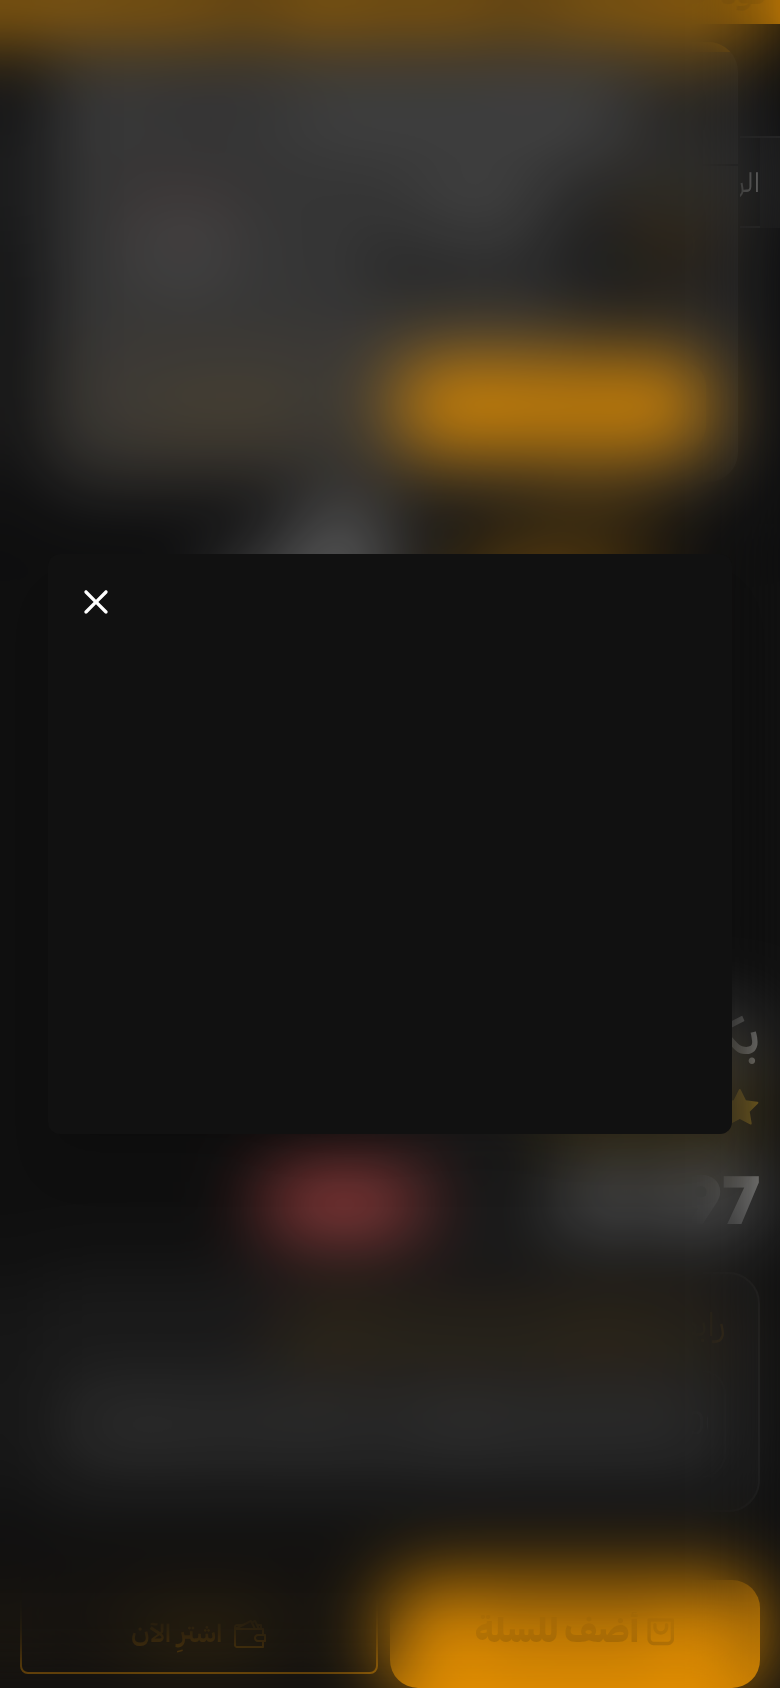
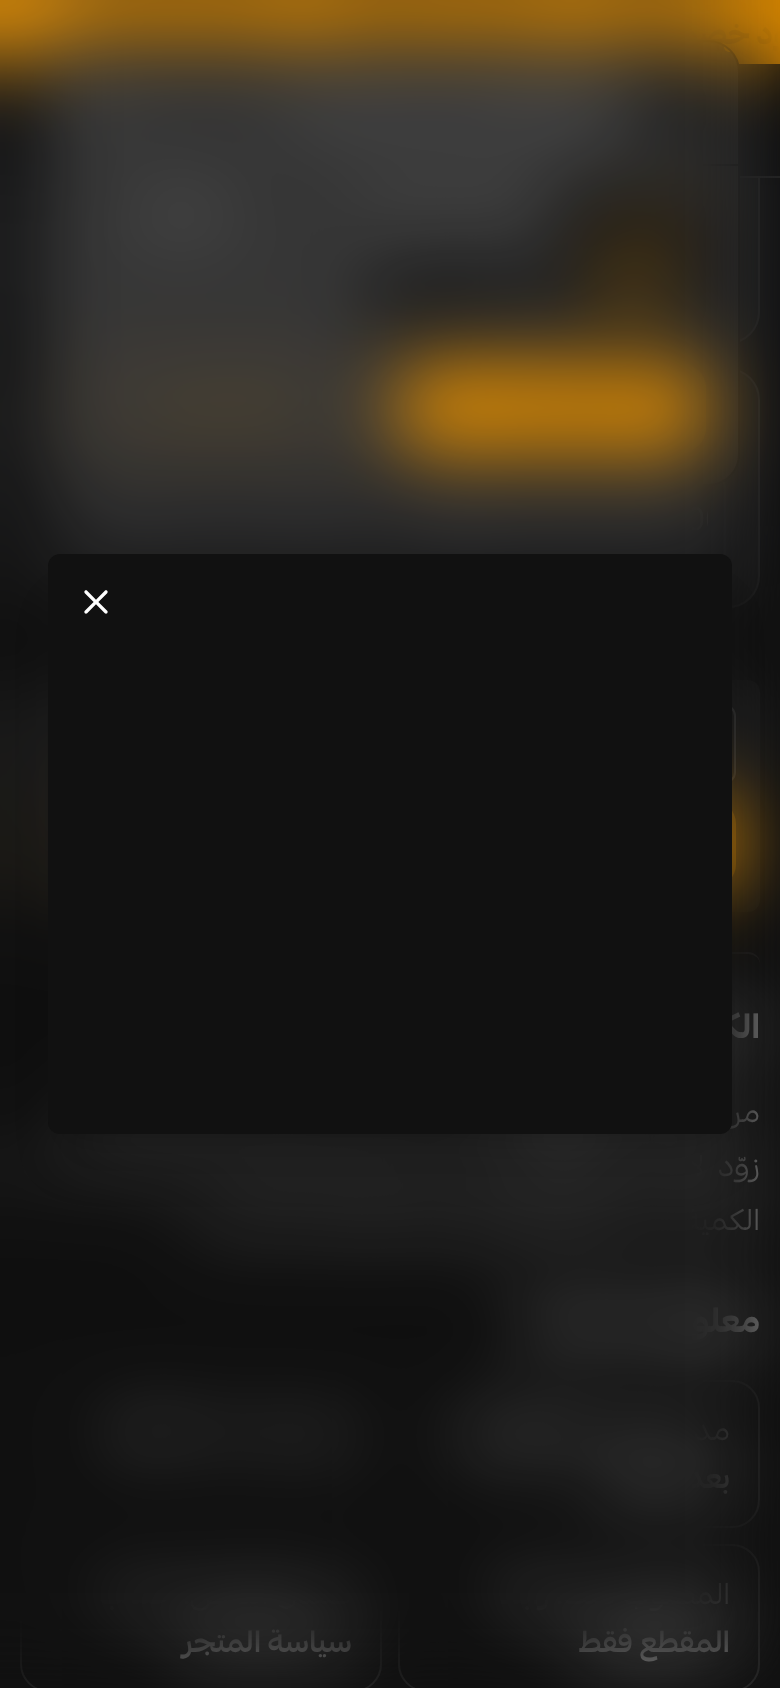
Product buy area back to Malak default: add to cart, buy now, Apple Pay, quantity; remove line under the buttons
Claude-Session: https://claude.ai/code/session_01Jr2byRzhdfLVFbNc9Z4Y48

diff --git a/salla/v4/flash-malak.css b/salla/v4/flash-malak.css
@@ -36,12 +36,12 @@ body#app ::selection{background:var(--fl-p);color:var(--fl-ink)}
 .store-header .header-inner{background:var(--fl-bg)!important;border-bottom:1px solid var(--fl-line)}
 .store-header .header-inner a,.store-header .header-inner button{min-height:40px;min-width:40px}
 
-/* 3. الأزرار ------------------------------------------------------------- */
-html body#app [class*="s-button-primary"]:not([class*="outline"]){background:var(--fl-p)!important;background-image:none!important;border-color:var(--fl-p)!important;color:#111111!important;box-shadow:none!important}
-html body#app [class*="s-button-primary"]:not([class*="outline"]):hover{background:var(--fl-pl)!important;border-color:var(--fl-pl)!important}
-html body#app .s-button-primary-outline{border-color:var(--fl-p)!important;color:var(--fl-p)!important;background:transparent!important}
-html body#app .s-button-element{border-radius:var(--fl-r-sm)!important;min-height:44px;font-weight:800;transition:background-color .15s ease,transform .1s ease}
-html body#app .s-button-element:active{transform:scale(.98)}
+/* 3. الأزرار (منطقة الشراء في صفحة المنتج تبقى على شكل الثيم الأصلي) ------------------------------------------------------------- */
+html body#app [class*="s-button-primary"]:not([class*="outline"]):not(.sticky-product-bar *){background:var(--fl-p)!important;background-image:none!important;border-color:var(--fl-p)!important;color:#111111!important;box-shadow:none!important}
+html body#app [class*="s-button-primary"]:not([class*="outline"]):hover:not(.sticky-product-bar *){background:var(--fl-pl)!important;border-color:var(--fl-pl)!important}
+html body#app .s-button-primary-outline:not(.sticky-product-bar *){border-color:var(--fl-p)!important;color:var(--fl-p)!important;background:transparent!important}
+html body#app .s-button-element:not(.sticky-product-bar *){border-radius:var(--fl-r-sm)!important;min-height:44px;font-weight:800;transition:background-color .15s ease,transform .1s ease}
+html body#app .s-button-element:active:not(.sticky-product-bar *){transform:scale(.98)}
 
 /* 4. بطاقة المنتج: شكل ملاك الأصلي كما هو. هنا تصحيحات وظيفية فقط ------------- */
 /* مقاس الصورة ثابت (يمنع تحرّك الصفحة) */
@@ -104,12 +104,11 @@ salla-product-options[options*="single-option"]:not(.hydrated){min-height:555px}
 .product-single .main-content form>.is-sold{order:7}
 .product-single .main-content form>#product-tabs-faqs{order:8}
 .product-single .main-content>*{order:9}
-/* ما يشتت: الوسوم، رقم الموديل، «متوفر»، السعر المكرر، عداد الكمية */
+/* ما يشتت: الوسوم، رقم الموديل، «متوفر»، السعر المكرر */
 .product-single .main-content>.mb-3,
 .product-single .product-sku-wrapper,
 .product-single .product-availablity,
-.product-single #product-tabs-options>section.total,
-.product-single .sticky-product-bar__quantity{display:none!important}
+.product-single #product-tabs-options>section.total{display:none!important}
 /* منتجات السعر داخل الخيارات: السعر العلوي يطلع «0» فنخفيه، والسعر يبان على كل زر */
 .product-single .main-content:has(.s-product-options-grid-mode)>.price{display:none!important}
 
@@ -142,13 +141,6 @@ salla-product-options[options*="single-option"]:not(.hydrated){min-height:555px}
 .s-product-options-text .s-form-control::placeholder{color:var(--fl-mut);direction:rtl;text-align:right}
 .s-product-options-text .s-form-control:focus{border-color:var(--fl-p)!important;box-shadow:none!important}
 
-/* زر الإضافة */
-.product-single .sticky-product-bar{background:transparent!important;padding:0!important;margin-top:14px!important}
-html body#app.product-single .sticky-product-bar .s-button-primary,.product-single .sticky-product-bar .s-button-primary{background:var(--fl-p)!important;background-image:none!important;box-shadow:none!important;border-color:var(--fl-p)!important;color:#111111!important;min-height:54px;border-radius:14px!important;font-size:17px!important;font-weight:900!important}
-.product-single .s-add-product-button-mini-checkout{border-radius:14px!important}
-@media (max-width:767px){
-  .product-single .sticky-product-bar.is-sticky,.product-single .sticky-product-bar[class*="fixed"]{background:var(--fl-bg)!important;border-top:1px solid var(--fl-line);padding:10px 16px!important}
-}
 
 /* 8. وصف المنتج (HTML بسيط من محرر سلة، والشكل هنا) ------------------------- */
 .product-single article.full-description{background:transparent!important;padding:18px 0 0!important;margin-top:20px!important;border-top:1px solid var(--fl-line);max-height:none!important;color:var(--fl-fg)}
@@ -263,17 +255,11 @@ html body#app .store-header .angel-ad__item,html body#app .store-header .angel-a
 /* مسار التنقل */
 body#app .breadcrumbs,body#app nav[aria-label*="breadcrumb"],body#app .s-breadcrumb{background:var(--fl-bg)!important;border-bottom:1px solid var(--fl-line)}
 /* النص فوق الأزرار البرتقالية لازم يكون داكن (التباين كان 2.1 فقط) */
-html body#app [class*="s-button-primary"]:not([class*="outline"]) *,
-html body#app .s-button-solid.s-button-primary *,
+html body#app [class*="s-button-primary"]:not([class*="outline"]):not(.sticky-product-bar *) *,
+html body#app .s-button-solid.s-button-primary:not(.sticky-product-bar *) *,
 html body#app .s-infinite-scroll-btn,html body#app .s-infinite-scroll-btn *{color:#111111!important}
-/* زر «اشتر الآن»: إطار كامل */
-.product-single .sticky-product-bar button[class*="outline"]{border:1.5px solid var(--fl-p)!important;min-height:54px;border-radius:14px!important}
-/* «اشتر الآن» (ودجت سلة للدفع السريع، فيه Apple Pay): زرّه داخل مكوّن محمي (Shadow DOM) يرسم إطاره بنفسه،
-   فما نلمس شكله، بس نخليه يملأ مكانه بجانب «أضف للسلة» */
-.product-single salla-mini-checkout-widget.s-add-product-button-mini-checkout{display:flex!important;align-items:center;justify-content:center;flex:1 1 0}
-/* صناديق صفحة المنتج (عدد مرات الشراء، التقييمات...) بلون الهوية، والشريط حول زر الإضافة شفاف */
+/* صناديق صفحة المنتج (عدد مرات الشراء، التقييمات...) بلون الهوية */
 body#app.product-single .details:not(.full-description):not(#product-tabs-options):not(.sticky-product-bar){background-color:var(--fl-s1)!important;border:1px solid var(--fl-line);border-radius:16px!important}
-body#app.product-single .sticky-product-bar{background-color:transparent!important;border:0!important;box-shadow:none!important}
 /* «عدد مرات الشراء»: بدل الأحمر */
 .product-single .is-sold,.product-single .is-sold *{color:var(--fl-mut)!important}
 .product-single .is-sold i,.product-single .is-sold b,.product-single .is-sold strong{color:var(--fl-p)!important}
@@ -291,8 +277,6 @@ body#app .s-filters-label{min-height:40px;display:flex;align-items:center}
 }
 /* تحت عنوان الكمية تطلع كلمة «اختر» بس، فنخفيها (حقل الرابط يبقى وصفه) */
 .s-product-options-option-container:has(.s-product-options-grid-mode) .s-product-options-option-label small{display:none!important}
-/* سطر طمأنة تحت زر الإضافة */
-.product-single .sticky-product-bar::after{content:"التنفيذ آلي بعد الدفع، ونحتاج رابط المقطع فقط.";display:block;width:100%;text-align:center;color:var(--fl-mut);font-size:13px;margin-top:10px}
 
 /* 11. الفوتر ------------------------------------------------------------- */
 .store-footer{background:#0B0B0B!important;border-top:1px solid var(--fl-line)}
